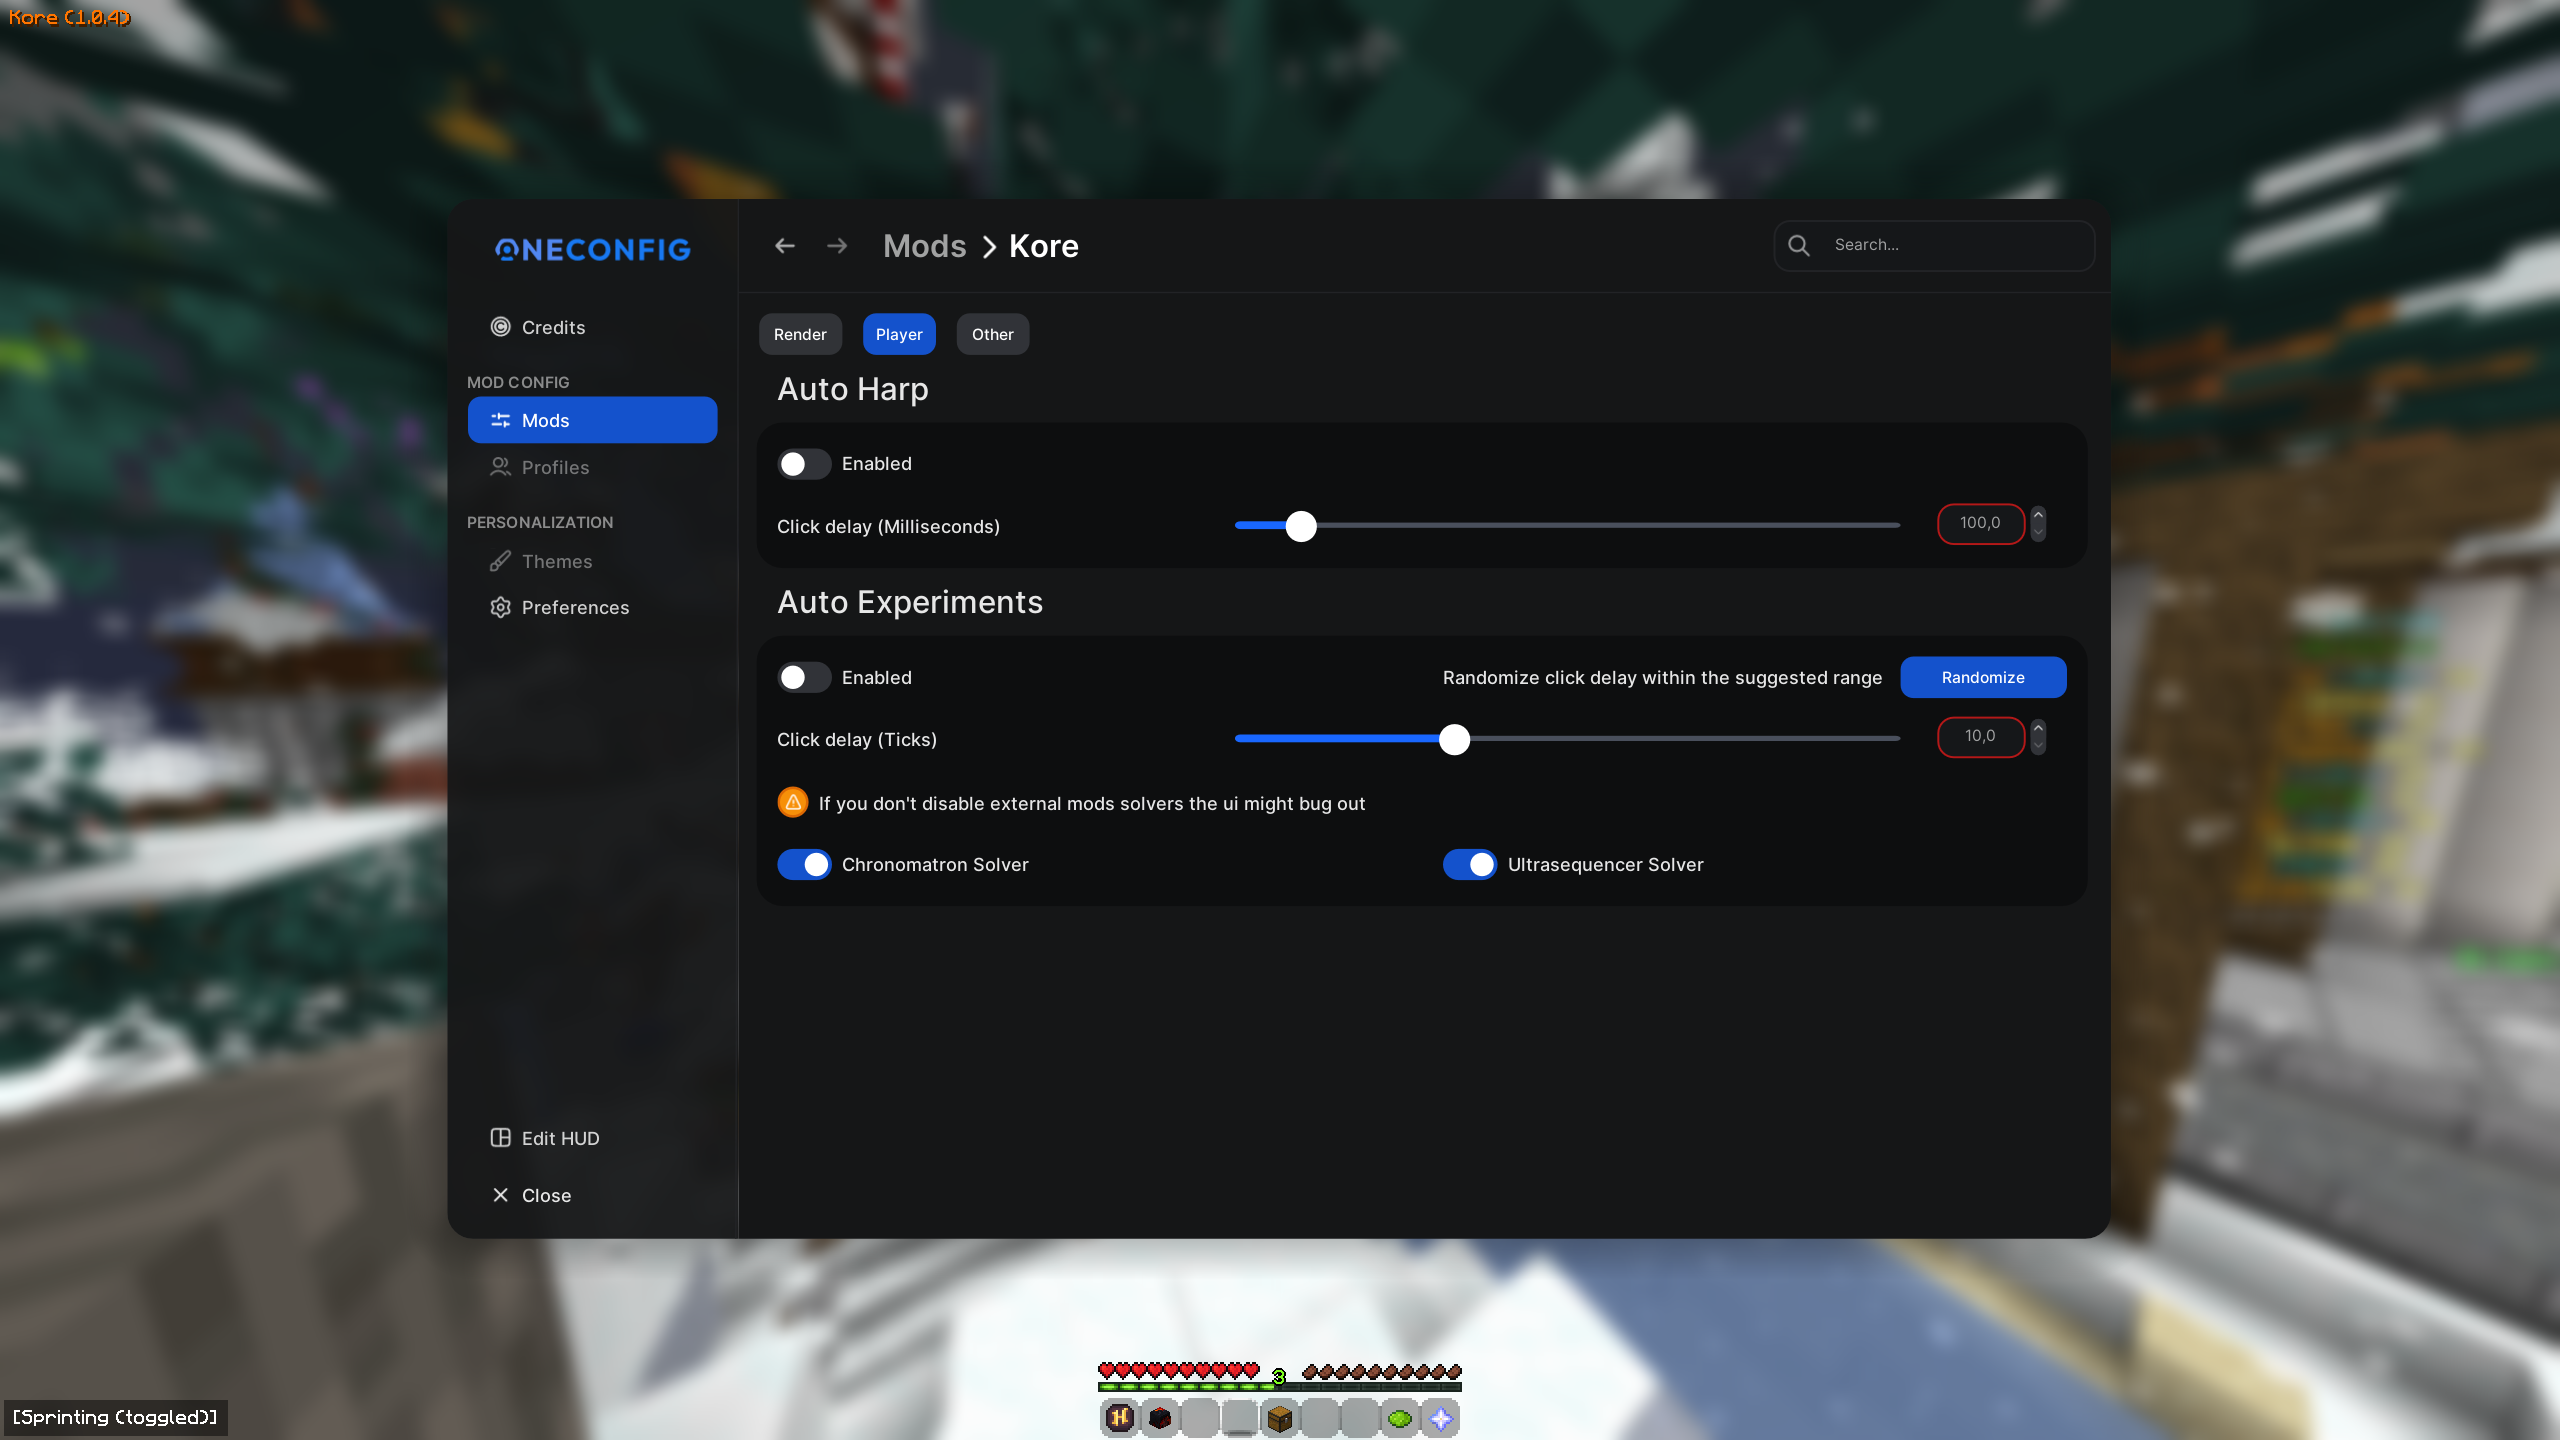
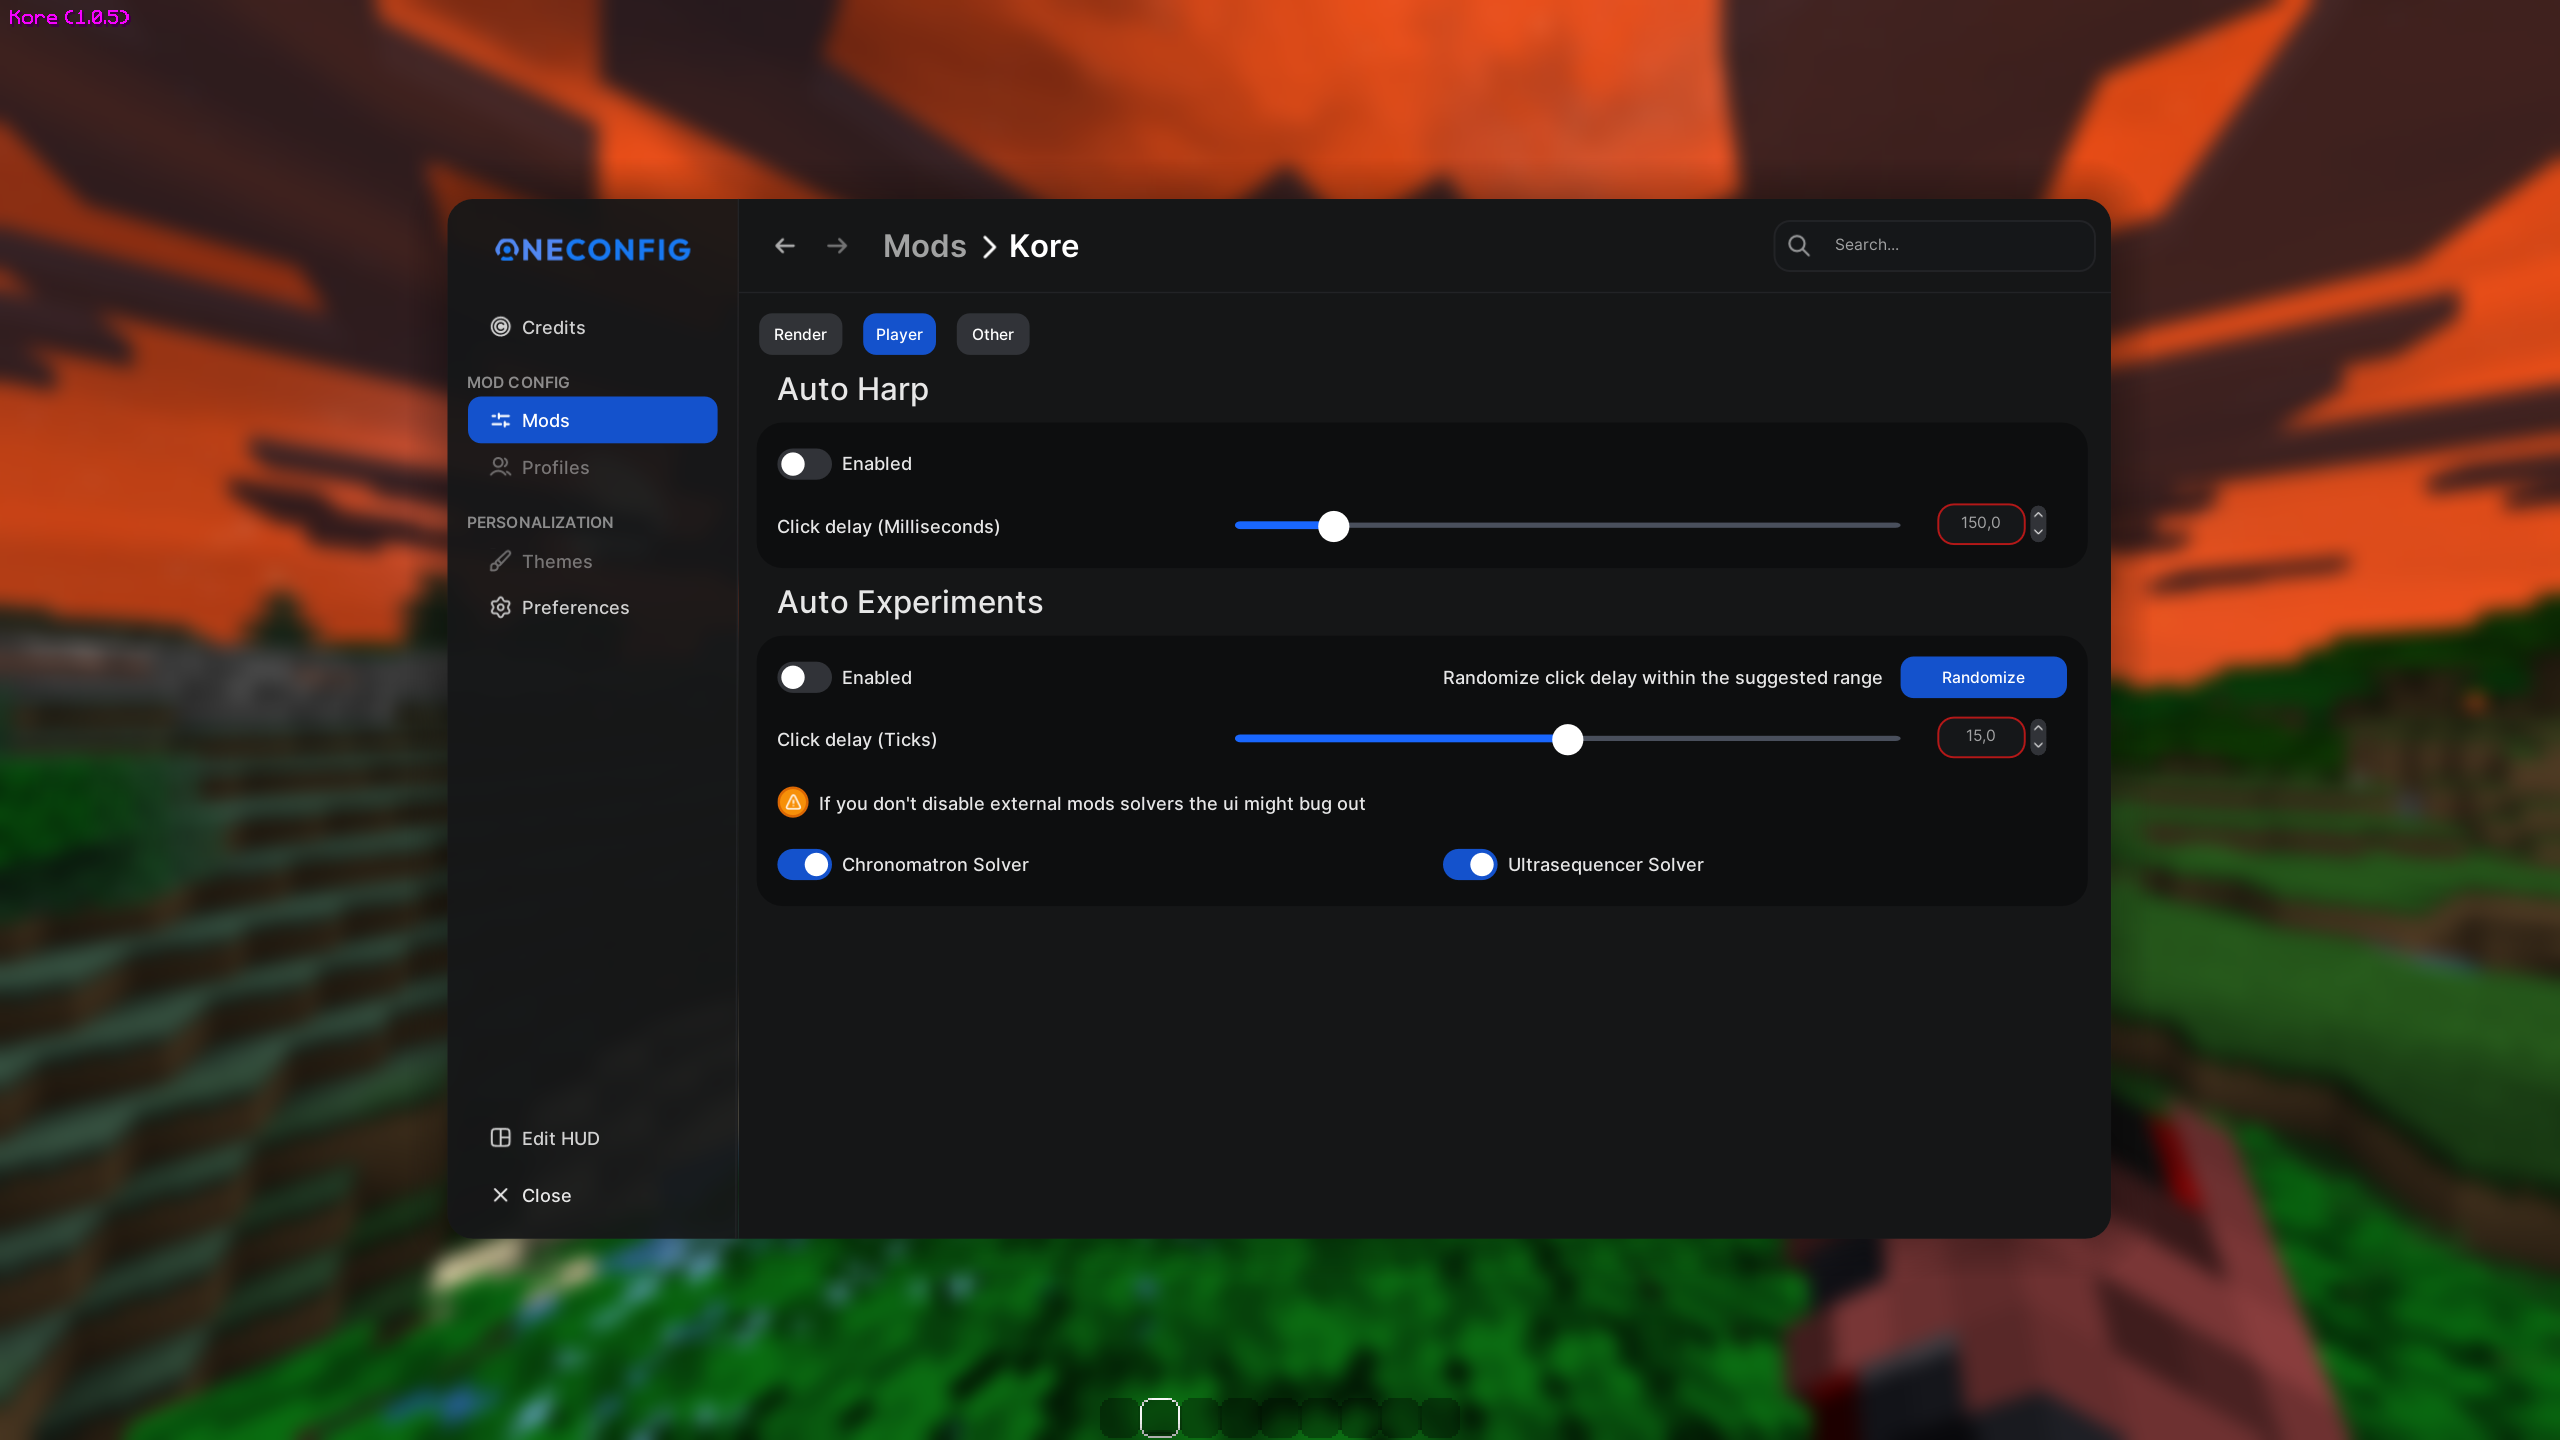
1.0.5
last update for a while.

diff --git a/src/main/java/katoz/kore/modules/player/AutoHarp.java b/src/main/java/katoz/kore/modules/player/AutoHarp.java
@@ -20,6 +20,7 @@ import katoz.kore.utils.ModUtils;
 
 import java.awt.*;
 import java.util.ArrayList;
+import java.util.Random;
 import java.util.concurrent.TimeUnit;
 
 public class AutoHarp {
@@ -30,6 +31,8 @@ public class AutoHarp {
     private int updates;
     private final ArrayList<ItemStack> currentInventory = new ArrayList<>();
     private long lastContainerUpdate;
+    private Random rand = new Random(System.currentTimeMillis());
+    private int randDelay = 0;
 
     @SubscribeEvent
     public final void onGuiOpen(@NotNull GuiOpenEvent event) {
@@ -84,6 +87,7 @@ public class AutoHarp {
                             slot = Kore.mc.thePlayer.openContainer.inventorySlots.get(finalSlotNumber);
                             timestamp = System.currentTimeMillis();
                             //ModUtils.sendMessage("clicked slot " + (slot.slotNumber + 9) + " at " + (timestamp - startedSongTimestamp));
+                            randDelay = rand.nextInt(3);
                             Kore.mc.playerController.windowClick(
                                     Kore.mc.thePlayer.openContainer.windowId,
                                     finalSlotNumber + 9,
@@ -91,7 +95,7 @@ public class AutoHarp {
                                     3,
                                     Kore.mc.thePlayer
                             );
-                        }, KoreConfig.autoHarpDelay, TimeUnit.MILLISECONDS);
+                        }, KoreConfig.autoHarpDelay+randDelay, TimeUnit.MILLISECONDS);
                         break;
                     }
                 }
@@ -101,7 +105,7 @@ public class AutoHarp {
 
     @SubscribeEvent
     public void onGuiRender(GuiScreenEvent.DrawScreenEvent.Post event) {
-        if (!isEnabled() || !inHarp) return;
+        if (!isEnabled() || !inHarp || !KoreConfig.devMode) return;
         GlStateManager.disableLighting();
         GlStateManager.disableDepth();
         GlStateManager.disableBlend();
@@ -125,7 +129,7 @@ public class AutoHarp {
                     Color.GREEN.getRGB()
             );
         }
-        if (slot != null && System.currentTimeMillis() - timestamp < KoreConfig.autoHarpDelay/* * 0.75*/) {
+        if (slot != null && System.currentTimeMillis() - timestamp < (KoreConfig.autoHarpDelay+randDelay)/* * 0.75*/) {
             Kore.mc.fontRendererObj.drawStringWithShadow(
                     "Click",
                     (event.gui.width - 176) / 2f + slot.xDisplayPosition + 8 - Kore.mc.fontRendererObj.getStringWidth("Click") / 2f,

diff --git a/src/main/java/katoz/kore/utils/hud/WatermarkHud.java b/src/main/java/katoz/kore/utils/hud/WatermarkHud.java
@@ -23,6 +23,7 @@ public abstract class WatermarkHud extends TextHud {
      * @param borderSize   Thickness of the border
      * @param borderColor  The color of the border
      */
+
     public WatermarkHud(String title, boolean enabled, float x, float y, float scale, boolean background, boolean rounded, float cornerRadius, float paddingX, float paddingY, OneColor bgColor, boolean border, float borderSize, OneColor borderColor) {
         super(enabled, x, y, scale, background, rounded, cornerRadius, paddingX, paddingY, bgColor, border, borderSize, borderColor);
         this.title = title;
@@ -110,6 +111,7 @@ public abstract class WatermarkHud extends TextHud {
         if (!brackets) return getLineWidth(lines.get(0), scale);
         return getLineWidth("[" + lines.get(0) + "]", scale);
     }
+    
     protected boolean brackets = false;
     protected OneColor bracketsColor = new OneColor(0xFFFFFFFF);
     protected String title;

diff --git a/src/main/java/katoz/kore/config/KoreConfig.java b/src/main/java/katoz/kore/config/KoreConfig.java
@@ -10,11 +10,6 @@ import cc.polyfrost.oneconfig.config.data.ModType;
 
 import java.util.Random;
 
-/**
- * The main Config entrypoint that extends the Config type and inits the config options.
- * See <a href="https://docs.polyfrost.cc/oneconfig/config/adding-options">this link</a> for more config Options
- */
-
 public class KoreConfig extends Config {
 
     // CATEGORIES
@@ -113,6 +108,14 @@ public class KoreConfig extends Config {
     )
     public static boolean devMode = false;
 
+    @Info(
+            text = "You need to leave and rejoin the server to apply the changes",
+            category = OTHER,
+            subcategory = PROTECTIONS,
+            type = InfoType.WARNING,
+            size = 2
+    )
+    public static boolean modHiderWarningIgnored;
     @Switch(
             name = "Mod Hider",
             description = "Hides the mod when sending the modlist to the server",

diff --git a/src/main/java/katoz/kore/Kore.java b/src/main/java/katoz/kore/Kore.java
@@ -30,11 +30,12 @@ import java.util.concurrent.ScheduledExecutorService;
 import java.util.concurrent.TimeUnit;
 
 /**
- * The entrypoint of the Example Mod that initializes it.
+ * The entrypoint of Kore that initializes it.
  *
  * @see Mod
  * @see InitializationEvent
  */
+
 @Mod(modid = Kore.MODID, name = Kore.NAME, version = Kore.VERSION)
 public class Kore {
     public static final String MODID = "@ID@";
@@ -47,7 +48,6 @@ public class Kore {
     public static Minecraft mc = Minecraft.getMinecraft();
     private final ArrayList<Object> modules = new ArrayList<>();
     private boolean login = false;
-    public static boolean debug = false;
     private boolean failedCreatingConfig = false;
 
     public Kore() {

diff --git a/src/main/java/katoz/kore/modules/render/Watermark.java b/src/main/java/katoz/kore/modules/render/Watermark.java
@@ -2,18 +2,11 @@ package katoz.kore.modules.render;
 
 import katoz.kore.Kore;
 import katoz.kore.utils.hud.WatermarkHud;
-import katoz.kore.config.KoreConfig;
 
-/**
- * An example OneConfig HUD that is started in the config and displays text.
- *
- * @see KoreConfig#hud
- */
 public class Watermark extends WatermarkHud {
     public Watermark() {
-        super("Kore", true);
+        super(Kore.NAME, true);
     }
-
     @Override
     public String getText(boolean example) {
         return "(" + Kore.VERSION +  ")";

diff --git a/src/main/java/katoz/kore/modules/player/AutoExperiments.java b/src/main/java/katoz/kore/modules/player/AutoExperiments.java
@@ -25,7 +25,6 @@ import java.util.List;
 import java.util.Random;
 
 public class AutoExperiments {
-
     private Minecraft mc = Minecraft.getMinecraft();
     private int tickAmount = 0;
     // Chronomatron
@@ -39,6 +38,7 @@ public class AutoExperiments {
     private int until = 0;
     private Random rand = new Random(System.currentTimeMillis());
     private int randDelay = 0;
+    
     @SubscribeEvent
     public void onTick(GuiScreenEvent.BackgroundDrawnEvent event) {
         if(!isEnabled()) return;

diff --git a/src/main/java/katoz/kore/command/MainCommand.java b/src/main/java/katoz/kore/command/MainCommand.java
@@ -4,14 +4,6 @@ import katoz.kore.Kore;
 import cc.polyfrost.oneconfig.utils.commands.annotations.Command;
 import cc.polyfrost.oneconfig.utils.commands.annotations.Main;
 
-/**
- * An example command implementing the Command api of OneConfig.
- * Registered in Kore.java with `CommandManager.INSTANCE.registerCommand(new MainCommand());`
- *
- * @see Command
- * @see Main
- * @see Kore
- */
 @Command(value = Kore.MODID, description = "Access the " + Kore.NAME + " GUI.")
 public class MainCommand {
     @Main

diff --git a/src/main/java/katoz/kore/events/PacketReceivedEvent.java b/src/main/java/katoz/kore/events/PacketReceivedEvent.java
@@ -6,16 +6,12 @@ import net.minecraftforge.fml.common.eventhandler.Event;
 
 @Cancelable
 public class PacketReceivedEvent extends Event {
-
     public Packet<?> packet;
-
     public PacketReceivedEvent(Packet<?> packet) {
         this.packet = packet;
     }
-
     public static class Post extends Event {
         public Packet<?> packet;
-
         public Post(Packet<?> packet) {
             this.packet = packet;
         }

diff --git a/src/main/java/katoz/kore/events/PacketSentEvent.java b/src/main/java/katoz/kore/events/PacketSentEvent.java
@@ -7,14 +7,11 @@ import net.minecraftforge.fml.common.eventhandler.Event;
 @Cancelable
 public class PacketSentEvent extends Event {
     public Packet<?> packet;
-
     public PacketSentEvent(Packet<?> packet) {
         this.packet = packet;
     }
-
     public static class Post extends Event {
         public Packet<?> packet;
-
         public Post(Packet<?> packet) {
             this.packet = packet;
         }

diff --git a/src/main/java/katoz/kore/utils/LocationUtils.java b/src/main/java/katoz/kore/utils/LocationUtils.java
@@ -45,8 +45,7 @@ public class LocationUtils {
     public static String serverName;
     public static boolean onSkyblock = false;
 
-    // TEMPORARY FIX FOR LOCRAW
-    // I hope its really temporary
+    // Temporary solution
     @SubscribeEvent(receiveCanceled = true)
     public void onChat(ClientChatReceivedEvent event) {
         String unformatted = event.message.getUnformattedText();

diff --git a/src/main/java/katoz/kore/events/MillisecondEvent.java b/src/main/java/katoz/kore/events/MillisecondEvent.java
@@ -7,7 +7,6 @@ import java.time.LocalDateTime;
 public class MillisecondEvent extends Event {
     public LocalDateTime dateTime;
     public long timestamp;
-
     public MillisecondEvent() {
         timestamp = System.currentTimeMillis();
         dateTime = LocalDateTime.now();

diff --git a/src/main/java/katoz/kore/events/SecondEvent.java b/src/main/java/katoz/kore/events/SecondEvent.java
@@ -7,7 +7,6 @@ import java.time.LocalDateTime;
 public class SecondEvent extends Event {
     public LocalDateTime dateTime;
     public long timestamp;
-
     public SecondEvent() {
         dateTime = LocalDateTime.now();
         timestamp = System.currentTimeMillis();
